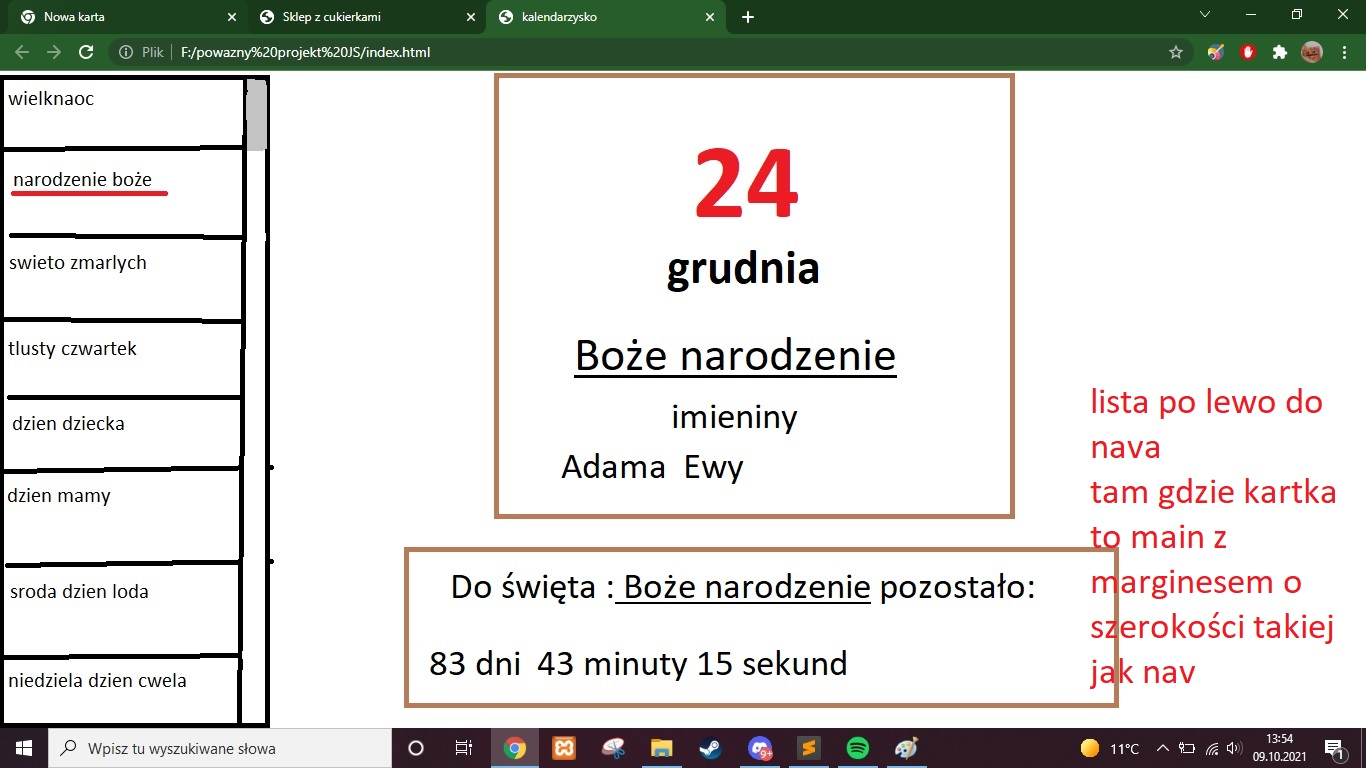
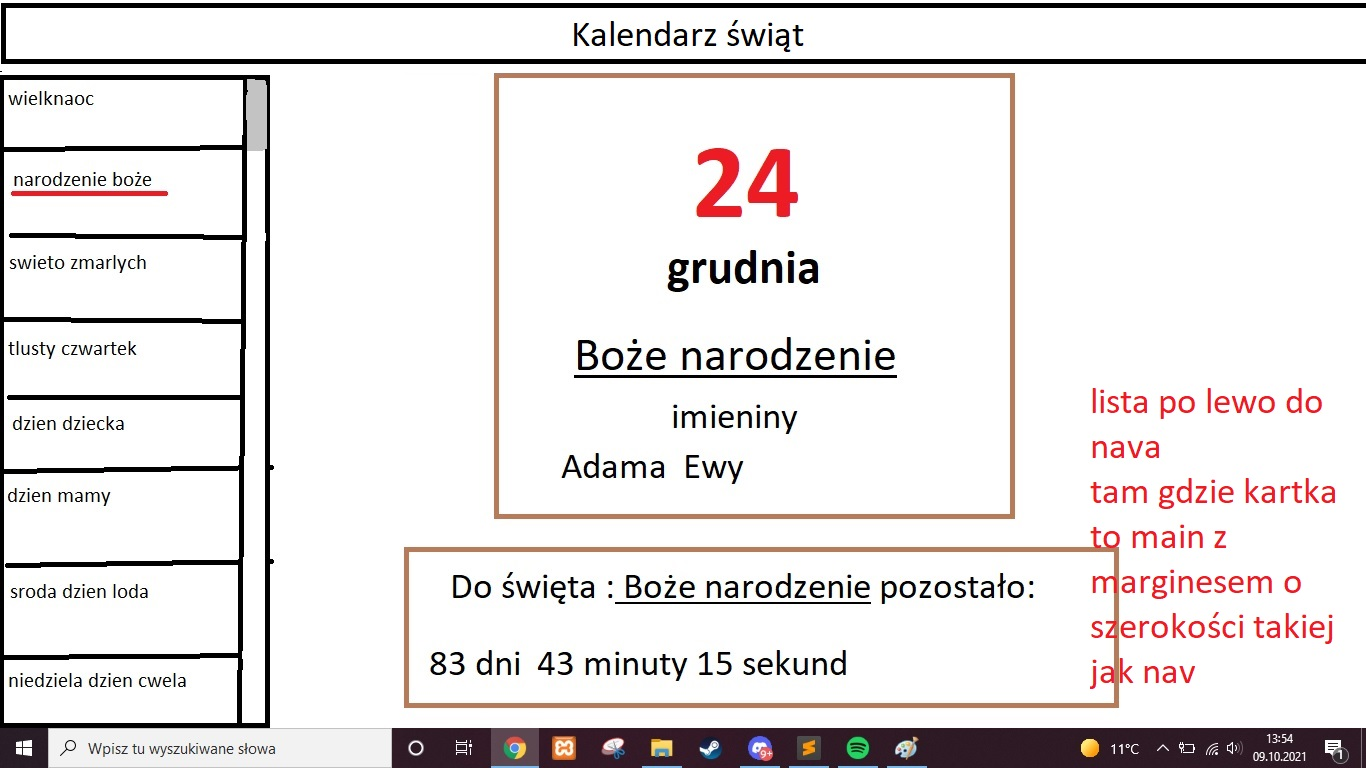
lista swiąt dodana

Changed region(s): [[0.0, 0.0, 1.0, 0.0938]]

diff --git a/powazny projekt JS/index.html b/powazny projekt JS/index.html
@@ -12,43 +12,260 @@
 	<nav class="scroll">
 		<ul>
 			<li>
-				cos cos
+				01 stycznia - Nowy rok
 			</li>
 			<li>
-				cos cos
+				08 stycznia - Dzień Sprzątania Biurka
 			</li>
 			<li>
-				cos cos
+				18 stycznia - Dzień Bałwana
 			</li>
 			<li>
-				cos cos
+				20 stycznia - Dzień Pingwinów
 			</li>
 			<li>
-				cos cos
-			<li>
-				cos cos
+				21 stycznia - Dzień Babci i Dzień Dziadka
 			</li>
 			<li>
-				cos cos
+				23 stycznia - Dzień Bez Opakowań Foliowych
+			<li>
+				27 stycznia - Dzień Pamięci o Ofiarach Holocaustu
 			</li>
 			<li>
-				cos cos
+				01 lutego - Dzień bez oleju palmowego
 			</li>
 			<li>
-				cos cos
+				02 lutego - Dzień Mokradeł
 			</li>
 			<li>
-				cos cos
+				11 lutego - Dzień Dokarmiania Zwierzyny Leśnej
 			</li>
 			<li>
-				cos cos
+				11 lutego - Dzień Kobiet i Dziewcząt w Nauce
 			</li>
 			<li>
-				cos cos
+				12 lutego - Dzień Darwina
 			</li>
 			<li>
-				cos cos
+				12 lutego - Dzień Dzieci-Żołnierzy
 			</li>
+			<li>
+				14 lutego - Walentynki
+			</li>
+			<li>
+				15 lutego - Dzień Wielorybów
+			</li>
+			<li>
+				16 lutego - Dzień Listonoszy i Doręczycieli Przesyłek Pocztowych
+			</li>
+			<li>
+				17 lutego - Dzień Kota
+			</li>
+			<li>
+				18 lutego - Dzień Baterii
+			</li>
+			<li>
+				20 lutego - Światowy Dzień Sprawiedliwości Społecznej
+			</li>
+			<li>
+				21 lutego - Dzień Języka Ojczystego
+			</li>
+			<li>
+				27 lutego - Dzień Organizacji Społecznych
+			</li>
+			<li>
+				27 lutego - Dzień Organizacji Społecznych
+			</li>
+			<li>
+				28 lutego - Tłusty czwartek
+			</li>
+			<li>
+				01 marca - Dzień Obrony Cywilnej
+			</li>
+			<li>
+				08 marca - Dzień Kobiet
+			</li>
+			<li>
+				15 marca - Światowy Dzień Praw Konsumenta
+			</li>
+			<li>
+				17 marca - Światowy Dzień Mórz
+			</li>
+			<li>
+				20 marca - Światowy Dnia Inwalidów i Osób z Niepełnosprawnościami
+			</li>
+			<li>
+				20 marca - Dzień Szczęścia
+			</li>
+			<li>
+				21 marca - Dzień Walki z Rasizmem
+			</li>
+			<li>
+				22 marca - Światowy Dzień Wody
+			</li>
+			<li>
+				23 marca - Dzień Meteorologii
+			</li>
+			<li>
+				27 marca - Międzynarodowy Dzień Teatru
+			</li>
+			<li>
+				28 marca - Dzień Chwastów
+			</li>
+			<li>
+				01 kwietnia - Prima Aprilis
+			</li>
+			<li>
+				07 kwietnia - Światowy Dzień Zdrowia
+			</li>
+			<li>
+				12 kwietnia - Światowy Dzień Czekolady
+			</li>
+			<li>
+				17 kwietnia - wielkanoc
+			</li>
+			<li>
+				18 - Lany Poniedziałek
+			</li>
+			<li>
+				22 kwietnia - Dzień Ziemi
+			</li>
+			<li>
+				23 kwietnia - Światowy Dzień Książki
+			</li>
+			<li>
+				28 kwietnia - Dzień Bezpieczeństwa i Ochrony Zdrowia w Pracy
+			</li>
+			<li>
+				01 maja - Święto Pracy
+			</li>
+			<li>
+				03 maja - Dzień Bez Komputera
+			</li>
+			<li>
+				04 maja - Międzynarodowy Dzień Strażaka
+			</li>
+			<li>
+				08 maja - Dzień Czerwonego Krzyża
+			</li>
+			<li>
+				15 maja - Międzynarodowy Dzień Rodzin
+			</li>
+			<li>
+				19 maja - Dzień Dobrych Uczynków
+			</li>
+			<li>
+				20 maja - Światowy Dzień Pszczół
+			</li>
+			<li>
+				21 maja - Światowy Dzień Kosmosu
+			</li>
+			<li>
+				26 maja - Dzień Matki
+			</li>
+			<li>
+				01 czerwca - Dzień Dziecka
+			</li>
+			<li>
+				03 czerwca - Dzień Roweru
+			</li>
+			<li>
+				08 czerwca - Dzień Lalki
+			</li>
+			<li>
+				15 czerwca - Dzień Wiatru
+			</li>
+			<li>
+				23 czerwca - Dzień Ojca
+			</li>
+			<li>
+				01 lipca - Dzień Psa
+			</li>
+			<li>
+				11 lipca - Światowy Dzień Ludności
+			</li>
+			<li>
+				15 lipca - Dzień bez Telefonu Komórkowego
+			</li>
+			<li>
+				29 lipca - Dzień Tygrysa
+			</li>
+			<li>
+				19 sierpnia - Dzień Pomocy Humanitarnej
+			</li>
+			<li>
+				15 września - Dzień Demokracji
+			</li>
+			<li>
+				21 września - Dzień Pokoju
+			</li>
+			<li>
+				22 września - Dzień Bez Samochodu
+			</li>
+			<li>
+				29 września - Międzynarodowy Dzień Kawy
+			</li>
+			<li>
+				30 września - Dzień chłopaka
+			</li>
+			<li>
+				01 października - Dzień Osób Starszych
+			</li>
+			<li>
+				02 października - Międzynarodowy Dzień bez Przemocy
+			</li>
+			<li>
+				04 października - Światowy Dzień Zwierząt
+			</li>
+			<li>
+				14 października - Dzień Edukacji Narodowej
+			</li>
+			<li>
+				15 października - Dzień Mycia Rąk
+			</li>
+			<li>
+				16 października - Światowy Dzień Żywności
+			</li>
+			<li>
+				1 listopada - Święto zmarłych
+			</li>
+			<li>
+				02 listopada - Dzień Zaduszny
+			</li>
+			<li>
+				10 listopada - Dzień Jeża
+			</li>
+			<li>
+				14 listopada - Dzień Czystego Powietrza
+			</li>
+			<li>
+				20 listopada - Dzień Praw Dziecka
+			</li>
+			<li>
+				25 listopada - Dzień Pluszowego Misia
+			</li>
+			<li>
+				28 listopada - Dzień bez kupowania
+			</li>
+			<li>
+				29 listopada - Andrzejki
+			</li>
+			<li>
+				04 grudnia - Barbórka
+			</li>
+			<li>
+				06 grudnia - Mikołajki
+			</li>
+			<li>
+				20 grudnia - Dzień Ryby
+			</li>
+			<li>
+				24 grudnia - Wigilia
+			</li>
+			<li>
+				31 grudnia - Sylwester
+			</li>
+			
 
 
 		</ul>

diff --git a/powazny projekt JS/css/style.css b/powazny projekt JS/css/style.css
@@ -15,11 +15,11 @@ header{
 background-color: #4d7752;
 	position: absolute;
 	float: left;
-	width: 200px;
+	width: 300px;
 	height: 500px;
 	overflow-y: scroll;
 	margin: 5px;
-font: 24px/36px sans-serif;
+font: 18px sans-serif;
 
 }
 ::-webkit-scrollbar {
@@ -49,7 +49,7 @@ li{
 	margin: auto;
 	margin-top: 5px;
 	text-align: center;
-	line-height: 50px;
+	/*line-height: 50px;*/
 }
 main{
 	position: relative;
